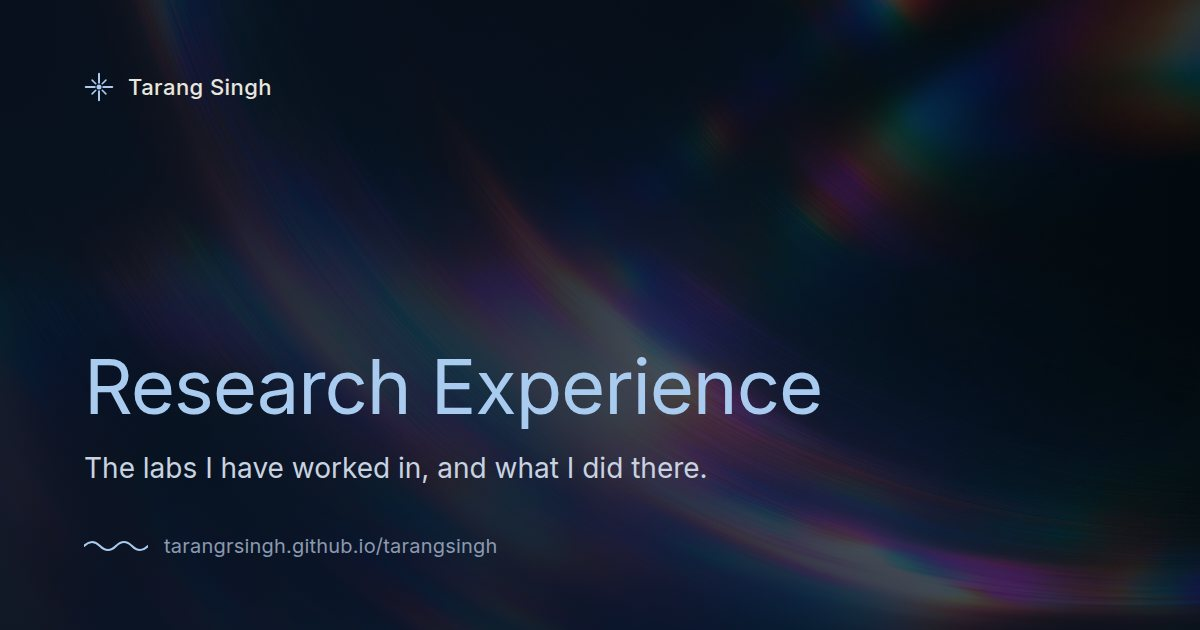
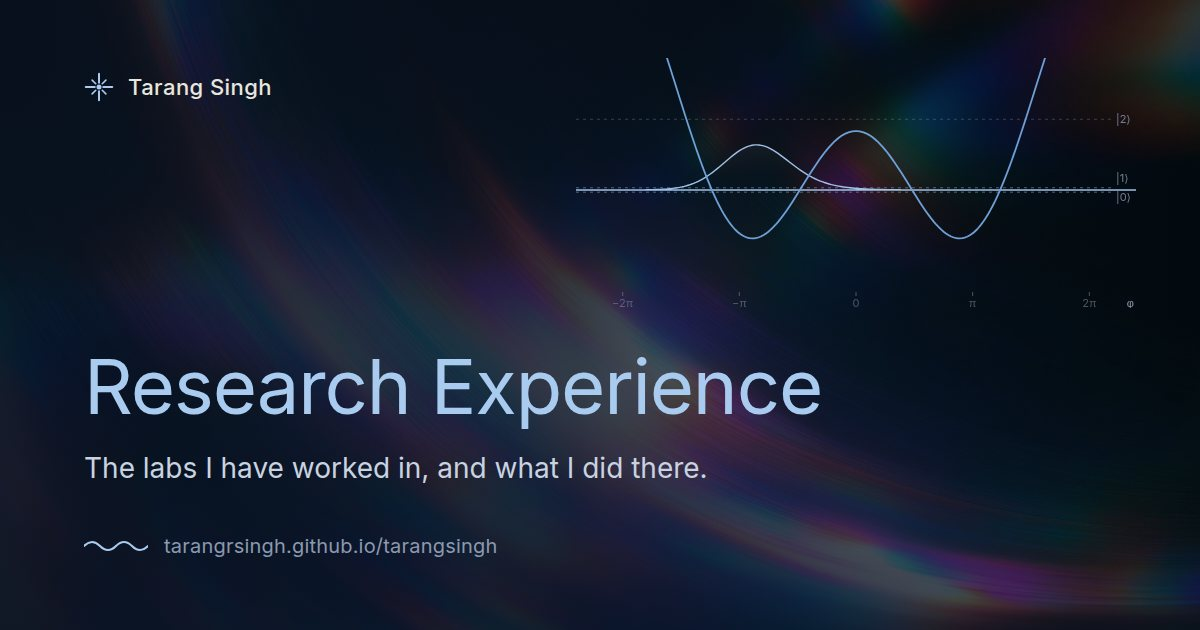
Research share card: the page's fluxonium, drawn above the title
card.html loads assets/fluxonium.js for the Research card and render.cjs runs
with reduced motion, so the card carries one still frame of the same solver
at half flux. The other six cards are unchanged.

Claude-Session: https://claude.ai/code/session_018QsPEUvG6R5jmAsWoRCLu6

diff --git a/tools/share-cards/card.html b/tools/share-cards/card.html
@@ -7,7 +7,7 @@
      window.CARD set, and saves a screenshot to assets/share/. Served from the repository root, so /assets/ resolves. -->
 <style>
   @font-face { font-family: 'Inter'; font-weight: 100 900; src: url(/assets/inter-var.woff2) format('woff2'); }
-  :root { --bg-rgb: 8, 17, 31; --text: #e8e6df; --muted: #8b9ab0; --copper-light: #a9cbf0; }
+  :root { --bg-rgb: 8, 17, 31; --text: #e8e6df; --muted: #8b9ab0; --copper: #6ea0d8; --copper-light: #a9cbf0; }
   * { box-sizing: border-box; margin: 0; }
   html, body { width: 1200px; height: 630px; overflow: hidden; background: #08111f; font-family: Inter, sans-serif; color: var(--text); }
   .bg { position: absolute; inset: 0; background-size: cover; }
@@ -28,6 +28,10 @@
   .foot { margin-top: 46px; display: flex; align-items: center; gap: 16px; font-size: 20px; color: var(--muted); letter-spacing: 0.01em; }
   .foot svg { width: 64px; height: 18px; }
   .home .title { color: var(--text); font-weight: 600; font-size: 84px; letter-spacing: -0.025em; }
+  /* Research card: the page's own fluxonium (assets/fluxonium.js), drawn once at half flux in the top-right corner */
+  .flx { position: absolute; right: 64px; top: 58px; width: 560px; margin: 0; }
+  .flx-main { display: block; width: 560px; height: 250px; }
+  .flx-spec { display: none; }
   .portrait { position: absolute; right: 84px; top: 72px; width: 180px; height: 180px; border-radius: 48px; object-fit: cover; border: 1px solid rgba(255, 255, 255, 0.28); box-shadow: 0 30px 60px -30px rgba(0, 0, 0, 0.8); }
 </style>
 </head>
@@ -50,6 +54,10 @@
     else if (c.lede) body += '<div class="lede">' + esc(c.lede) + '</div>';
     body += '<div class="foot">' + WAVE + '<span>tarangrsingh.github.io/tarangsingh</span></div>';
     document.getElementById('card').innerHTML = body;
+    if (c.flux) {   // the same solver and drawing as the Research page (render.cjs runs with reduced motion: one still frame)
+      document.getElementById('card').insertAdjacentHTML('beforeend', '<figure class="flx"><canvas class="flx-main"></canvas><canvas class="flx-spec"></canvas><b data-k="phi" hidden></b><b data-k="f01" hidden></b></figure>');
+      var sc = document.createElement('script'); sc.src = '/assets/fluxonium.js'; sc.onload = function () { window.cardReady = true; }; document.body.appendChild(sc);
+    } else window.cardReady = true;
   };
 </script>
 </body>
